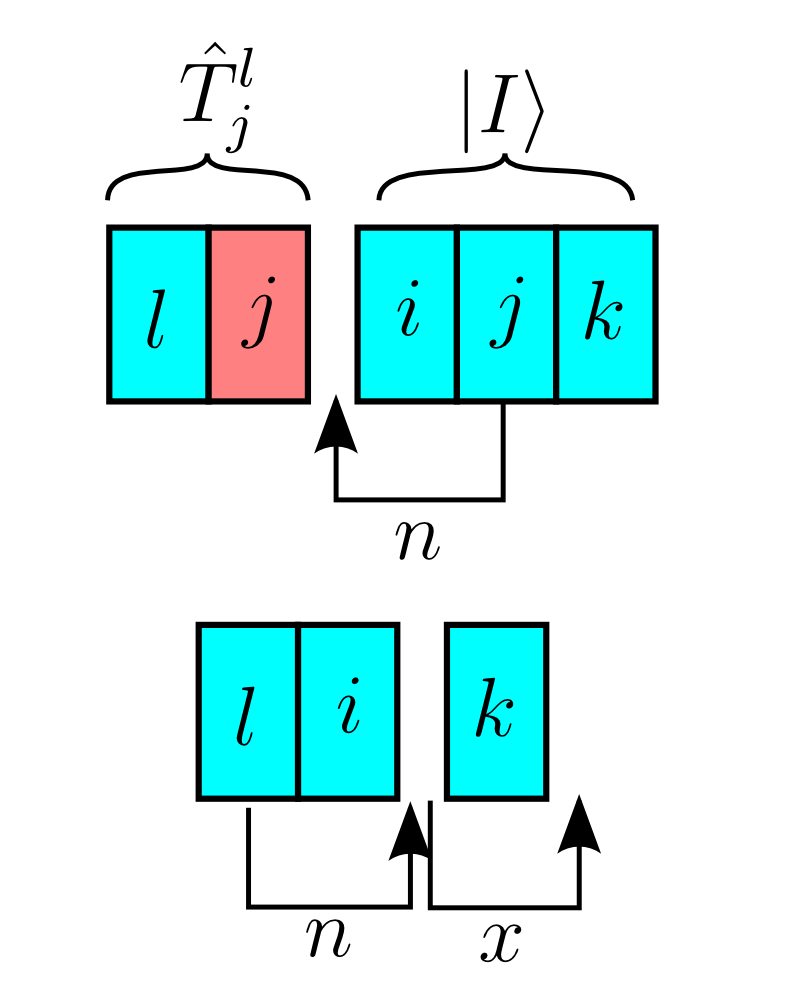
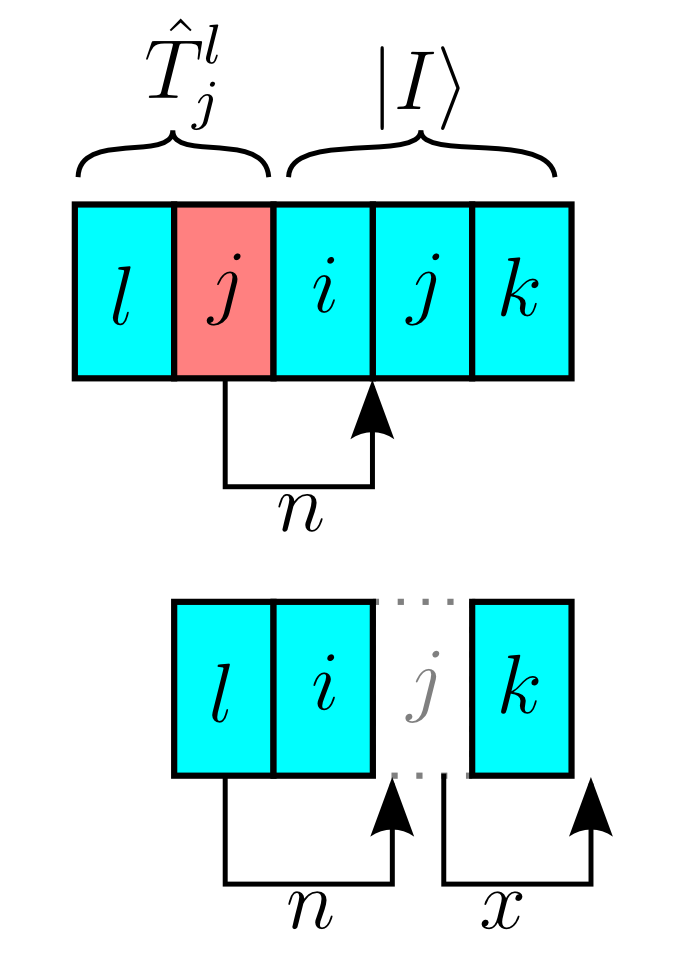
ordering of excitation operators. figures changed

Changed region(s): [[0.0924, 0.0, 0.8622, 0.5625], [0.2463, 0.625, 0.893, 0.9688]]

diff --git a/det_driven.tex b/det_driven.tex
@@ -378,7 +378,22 @@ Because computing excitations is a hotspot of the program, and because we are ty
 
 The computation of phase factors is slightly more complex. The following explanation is limited to one spin part. More detail will be given later about why spin parts can be treated independently.
 As we have seen in section~\ref{sec:det_representation}, the $\alpha \beta$-bitstring representation of determinants implies an ordering of creation operators : first all the $\alpha$ operators, then all the $\beta$, both with increasing orbital indices.
+
 Whenever we build a new determinant by applying an excitation operator, we obtain a determinant that is initially expressed not just with a different ordering, but with a mix of creation and annihilation operators.
+
+First of all, we have to make this initial expression unambiguous by precisely defining excitation operators. We have defined an implicit ordering for the expression of determinants, we also need an implicit ordering for the expression of excitation operators. We use the same one, but we apply it separately on creation and anihilation operators, then interleave them starting with a creation. In other words, a multiple excitation is written as a product of single excitations, lowest particle with lowest hole, then second lowest particle with second lowest hole, etc... and it's arbitrarily chosen to put creation before anihilation.
+For example, the double excitation $ac \rightarrow bd$ with $a<b<c<d$ is expressed as
+
+$$\hat T_{ac}^{bd} = \ac{b} \an{a} \ac{d} \an{c} = \hat T_a^b \hat T_c^d$$
+
+Note that this ordering retains the packing of $\alpha$ and $\beta$ operators we have for determinants
+
+\begin{equation}
+\label{eq:spinpackexc}
+\hat T = \hat T_\alpha \hat T_\beta
+\end{equation}
+
+We now can express $\hat T \kI$ as a serie of operators.
 In most cases, permuting contiguous operators will still just result in a sign change.
 \begin{align*}
 \an{j} \an{i} & = -\an{i} \an{j} \\
@@ -399,8 +414,7 @@ In the first case, a particle is created then annihilated, resulting in the same
 These formulas will be used to remove annihilation operators from the expression of a determinant.
 
 
-A single excitation operator exciting an electron from spinorbital $j$ to $l$ is defined as
-$$\excorb{j}{l} = \ac{l}\an{j}.$$
+
 Let $\kI$ and $\kK$ be two determinants with spin orbitals ordered as in the $\alpha \beta$-bitstring  representation:
 \begin{align*}
 \kI & = \ac{i}\ac{j}\ac{k} \vac \\
@@ -427,13 +441,12 @@ The total number of permutations needed is $\Nperm = 2n+x$. The parity of the nu
 		\label{phasefactor}%
 		phasefactor
 		}
-		\alert{Refaire la fleche dans l'autre sens pour etre coherent avec le texte}.
 	\end{center}
 \end{figure}
 
 \subsection{Treating spin parts separately}
 
-It is not immediately obvious that $\alpha$ and $\beta$ spin parts can be treated independently. It is  possible because we chose in the ordering to pack together creation operators with the same spin (Eq.\eqref{eq:spinpack}), and 
+It is not immediately obvious that $\alpha$ and $\beta$ spin parts can be treated independently. It is possible because our ordering packs together operators of same spin in the expression of both determinants (Eq.\eqref{eq:spinpack}) and excitations (Eq.\eqref{eq:spinpackexc}), and 
 also because we never consider excitations where the spin is changed (spin-flips). 
 Under these constraints, any excitation operator $\hat{T}$ can be expressed as 
 $$\hat{T} = \hat{T}_\alpha \hat{T}_\beta .$$
@@ -685,13 +698,19 @@ In the case of an $\alpha \beta$ double excitation, the two single excitations a
 
 $$phase(\hat T_{p \bar q}^{r \bar s}, \ket I) = phase(\hat T_{p}^{r}, \ket I) \times phase(\hat T_{ \bar q}^{ \bar s}, \ket I) $$
 
-There is a slight complication for $\alpha \alpha$ or $\beta \beta$ excitations.
 
-As far as phase computation goes, it is irrelevant which index of an exciation operator is a creaion and which is an annihilation. So, for convenience, we can write single excitations without defining it
+There is a slight complication for $\alpha \alpha$ or $\beta \beta$ excitations. The ordering we defined for excitation operators is of importance. In order to write a double excitation as a product of two single ones, it must be ensured that the phase (ordering) matches the one we defined : lowest particle with lowest hole, highest particle with highest hole.
+
+As far as phase computation goes, it is irrelevant which index of an exciation operator is a creation and which is an annihilation. So, for convenience, we can write single excitations without defining it
 
 $$\tilde T_{ab} \in \{\hat T_a^b, \hat T_b^a \}$$
 
+
+
+
 Considering a double excitation $\hat T^2$ involving 4 spinorbitals $p,q,r,s$ of same spin, there are two possible situations, shown in figure \ref{fig:biphasefactor}. 
+
+
 
 %$$\hat T^2 = \hat T_{pr} \hat T_{qs}$$
 %$$\hat T_{pr} \in \{ T_p^r, T_r^p\} ; p<r; \hat T_{qs} \in \{ T_q^s, T_s^q\};q<s$$ 
@@ -706,9 +725,12 @@ $$phase(\hat T^2, \ket I) = phase(\tilde T_{pr}, \ket I) \times phase(\tilde T_{
 \item
 It can be expressed as two single excitations that cross, i.e.
 $$\hat T^2=\tilde T_{pr} \tilde T_{qs};p<q<r<s$$
+
+
 As we can see in figure \ref{fig:biphasefactor}, applying  $\tilde T_{qs}$ results in a particle being created or annihilated in the range $]p,r[$, resulting in a change of parity for the number of particles in that range. Therefore
 $$phase(\tilde T_{pr}, \tilde T_{qs} \ket I) = -phase(\tilde T_{pr}, \ket I)$$ 
 $$phase(\hat T^2, \ket I) = -phase(\tilde T_{pr}, \ket I) \times phase(\tilde T_{ qs}, \ket I) $$
+
 \end{itemize}
 
 
@@ -718,9 +740,9 @@ $$phase(\hat T^2, \ket I) = -phase(\tilde T_{pr}, \ket I) \times phase(\tilde T_
 		\includegraphics[width=0.4\columnwidth]{figures/determinant_driven/biphasefactor}
 		\caption{
 		\label{fig:biphasefactor}%
-		phasemask
+		Crossing of two single excitations
 		}
-		commentt
+		The third situation doesn't fit the ordering we imposed on excitation operators. $p \leftrightarrow s$ is either lowest electron to highest orbital, or highest electron to lowest orbital.
 	\end{center}
 \end{figure}
 
